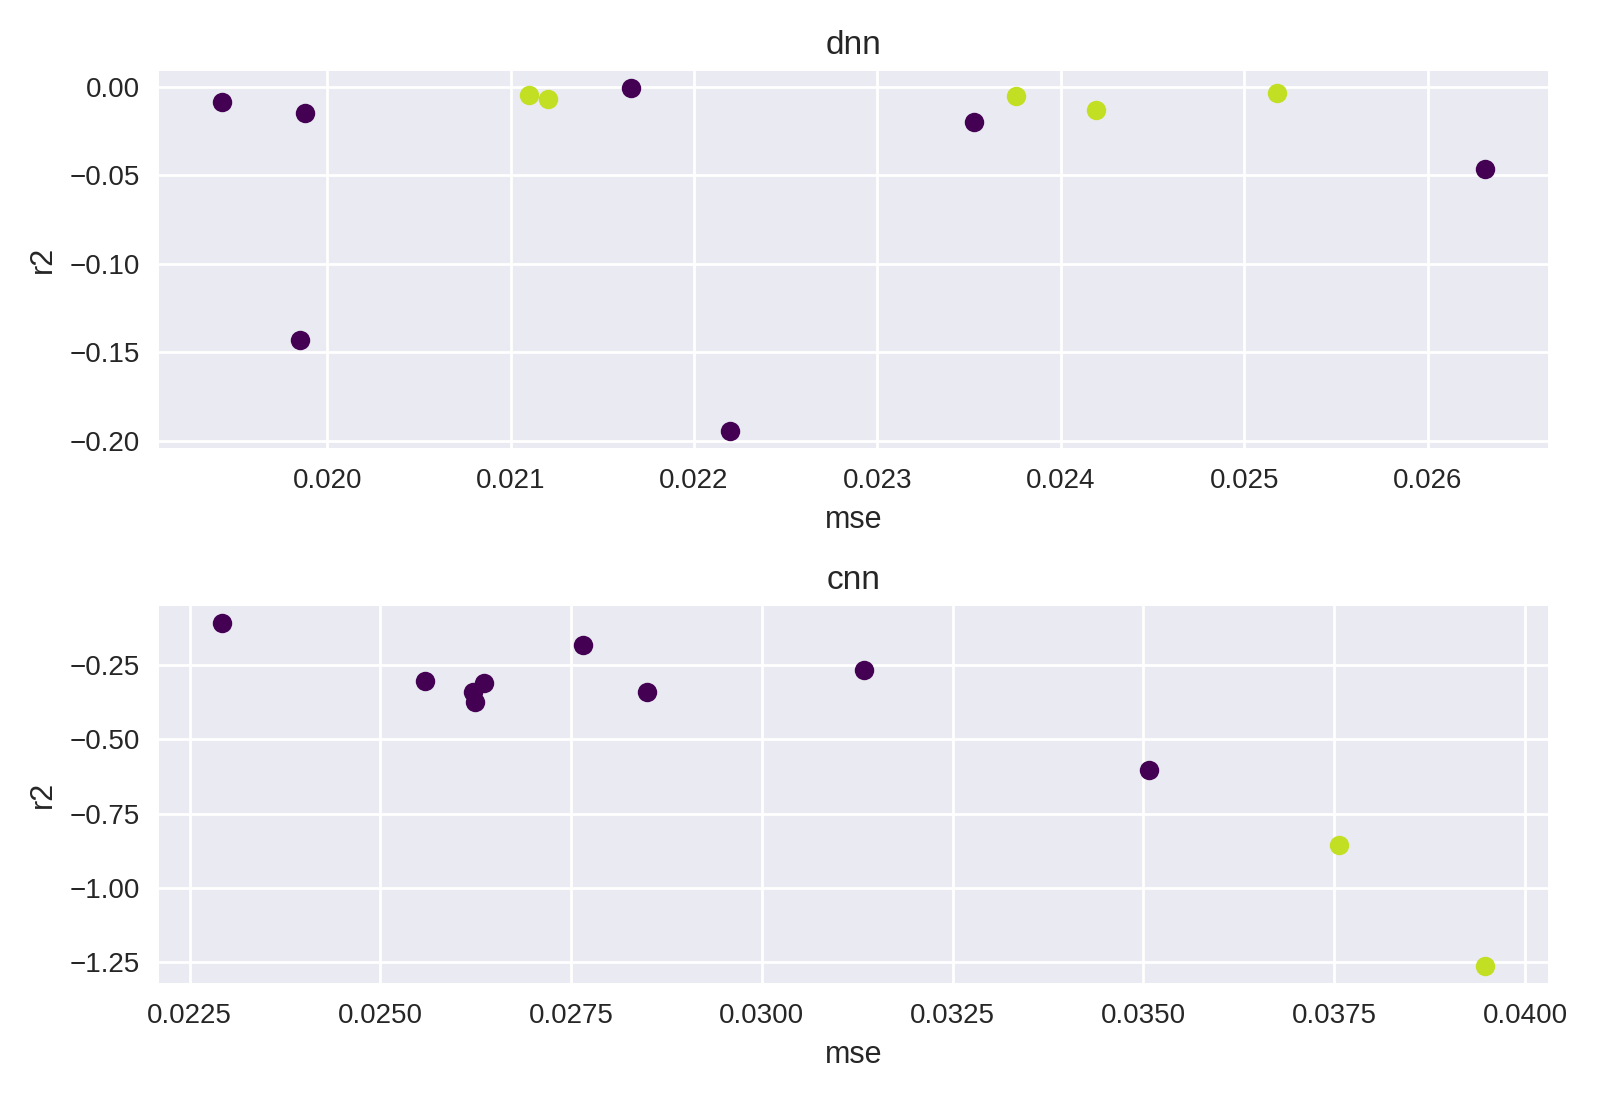
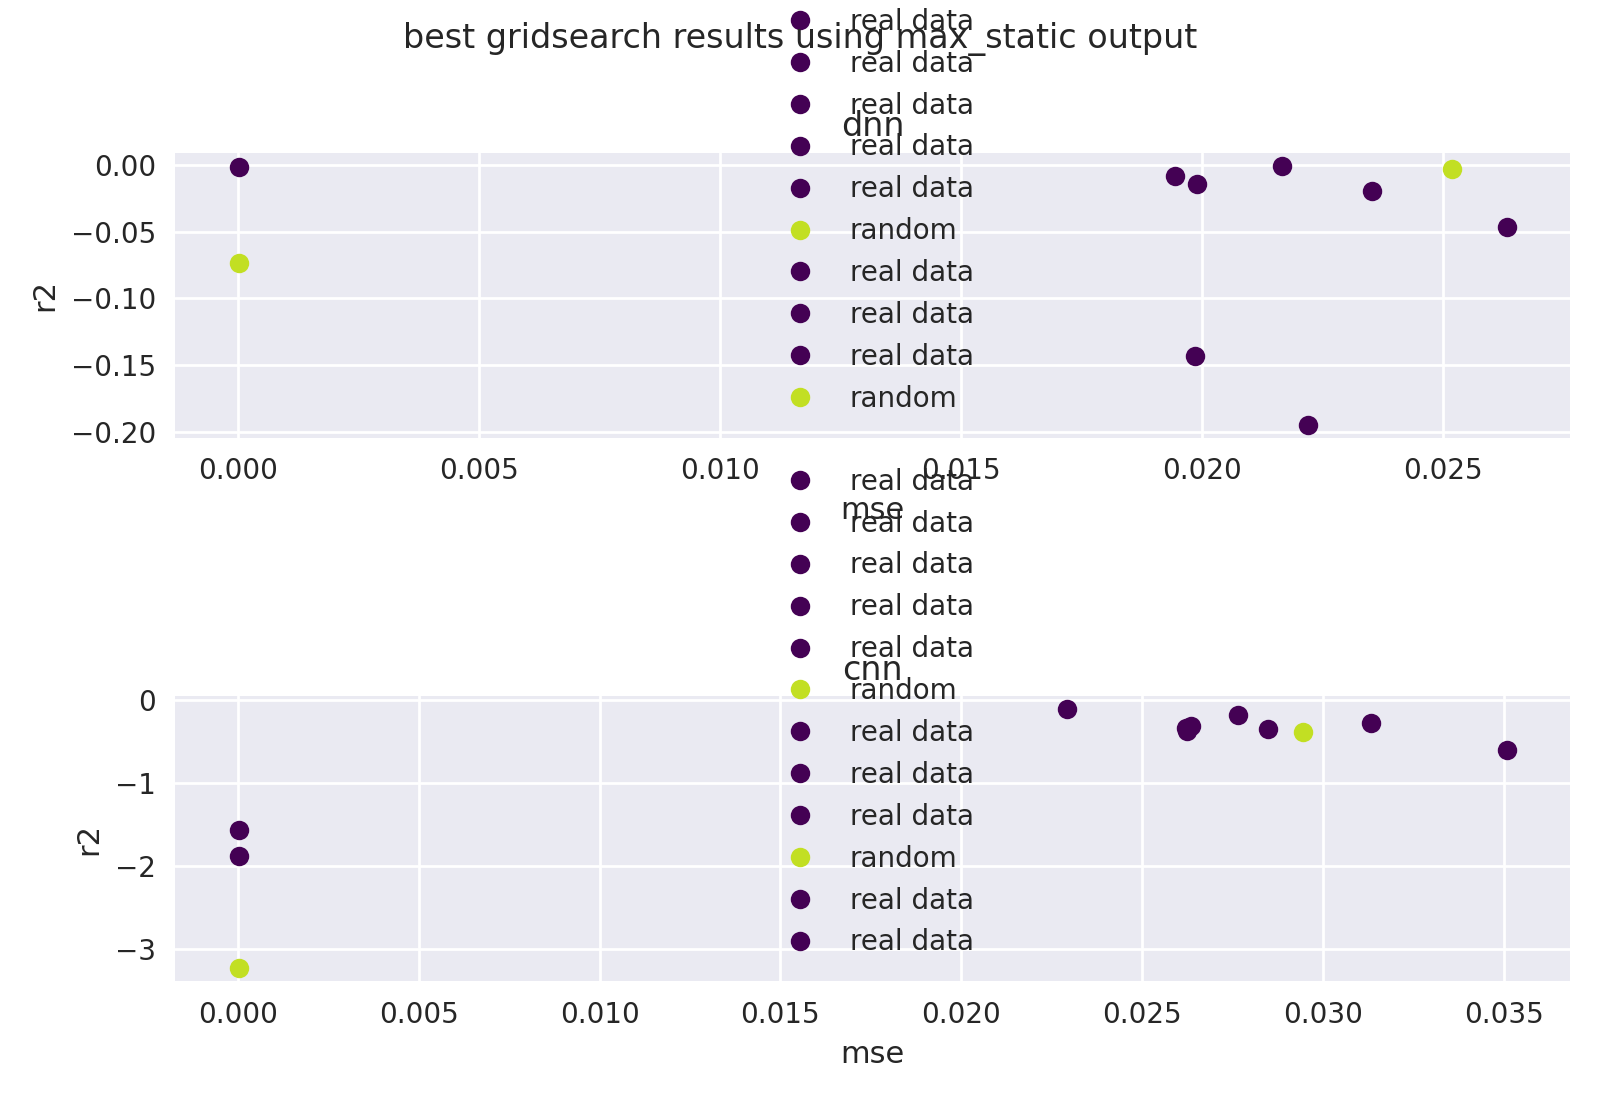
added some more label and titles

diff --git a/python/ml/plot_results.py b/python/ml/plot_results.py
@@ -21,7 +21,7 @@ fig, axs = plt.subplots(2)
 axs = axs.ravel()
 c = plt.cm.viridis((1 - np.arange(2))/(1 - 0 + 0.1))
 
-sigmax = True
+sigmax = False
 
 for i,_file in enumerate(files_dnn):
     obj = np.load(_file, allow_pickle = True)
@@ -33,11 +33,11 @@ for i,_file in enumerate(files_dnn):
     if not sigmax:
         if 'random' in _file:
             random_dnn.append((best_r2, best_mse))
-            axs[0].plot(best_mse, best_r2, 'o',c=c[0])
+            axs[0].plot(best_mse, best_r2, 'o',c=c[0], label = 'random')
             print('^^random')
         else:
             actual_dnn.append((best_r2, best_mse))
-            axs[0].plot(best_mse, best_r2, 'o',c=c[1])
+            axs[0].plot(best_mse, best_r2, 'o',c=c[1], label = 'real data')
     else:
         if 'sigmax' in _file:
             if 'random' in _file:
@@ -46,7 +46,7 @@ for i,_file in enumerate(files_dnn):
                 print('^^random')
             else:
                 actual_dnn.append((best_r2, best_mse))
-                axs[0].plot(best_mse, best_r2, 'o',c=c[1])
+                axs[0].plot(best_mse, best_r2, 'o',c=c[1], label = 'real data')
 axs[0].legend()
 for i,_file in enumerate(files_cnn):
     obj = np.load(_file, allow_pickle = True)
@@ -58,11 +58,11 @@ for i,_file in enumerate(files_cnn):
     if not sigmax:
         if 'random' in _file:
             random_cnn.append((best_r2, best_mse))
-            axs[1].plot(best_mse, best_r2, 'o',c=c[0])
+            axs[1].plot(best_mse, best_r2, 'o',c=c[0], label = 'random')
             print('^^random')
         else:
             actual_cnn.append((best_r2, best_mse))
-            axs[1].plot(best_mse, best_r2, 'o',c=c[1])
+            axs[1].plot(best_mse, best_r2, 'o',c=c[1], label = 'real data')
     else:
         if 'sigmax' in _file:
             if 'random' in _file:
@@ -71,7 +71,7 @@ for i,_file in enumerate(files_cnn):
                 print('^^random')
             else:
                 actual_cnn.append((best_r2, best_mse))
-                axs[1].plot(best_mse, best_r2, 'o',c=c[1])
+                axs[1].plot(best_mse, best_r2, 'o',c=c[1], label = 'real data')
 axs[1].legend()
 if sigmax:
     fig.suptitle('best gridsearch results using sigmax output')
